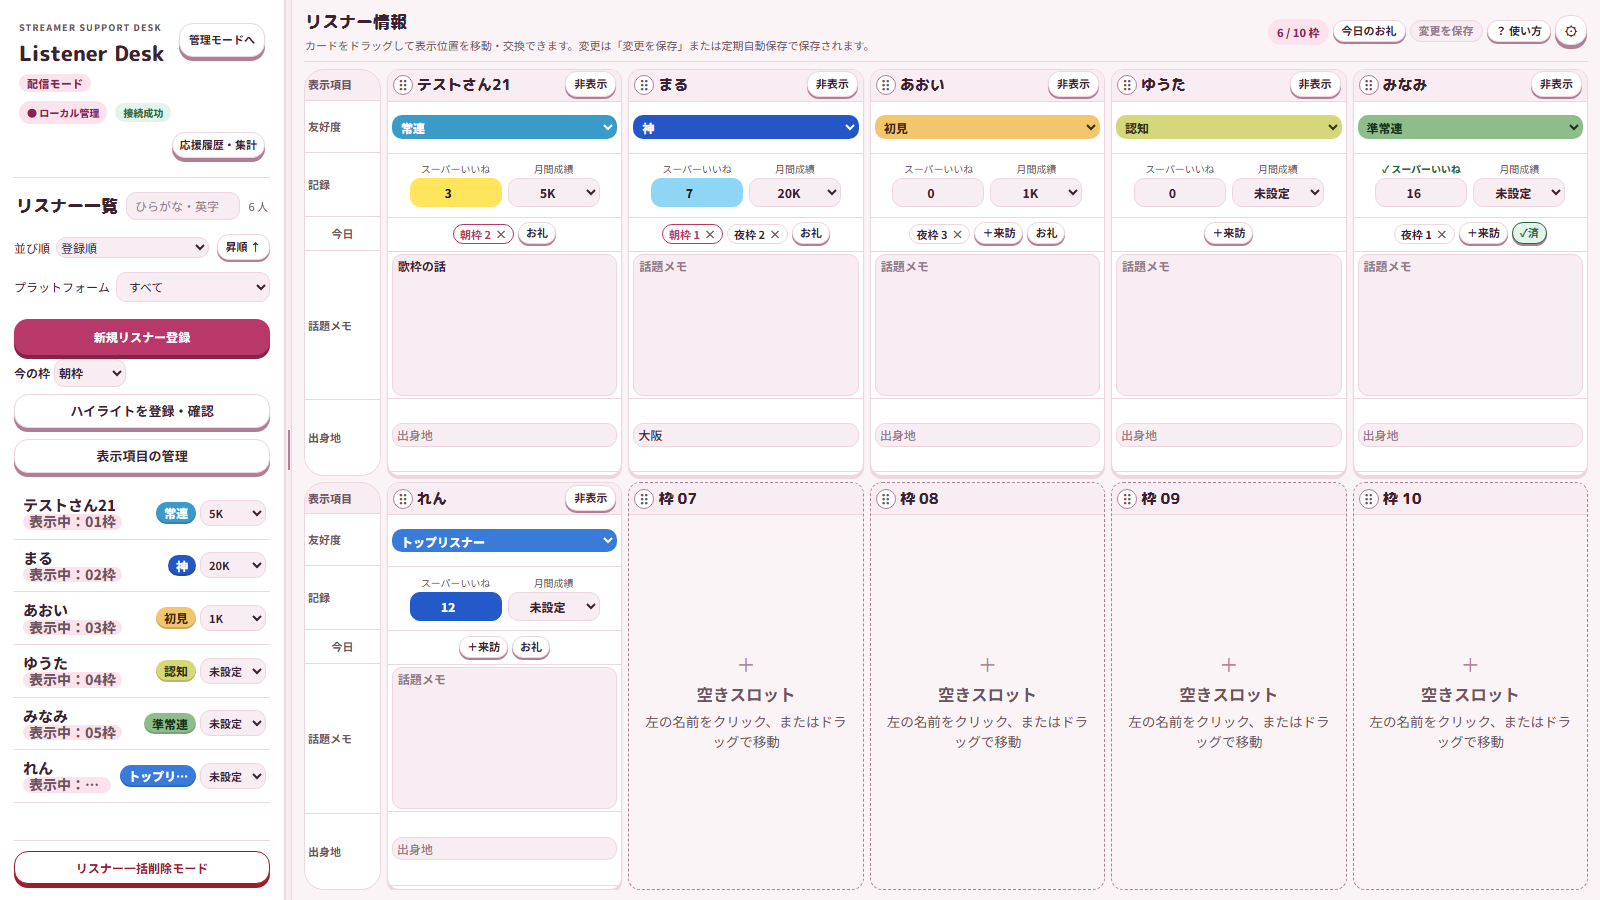
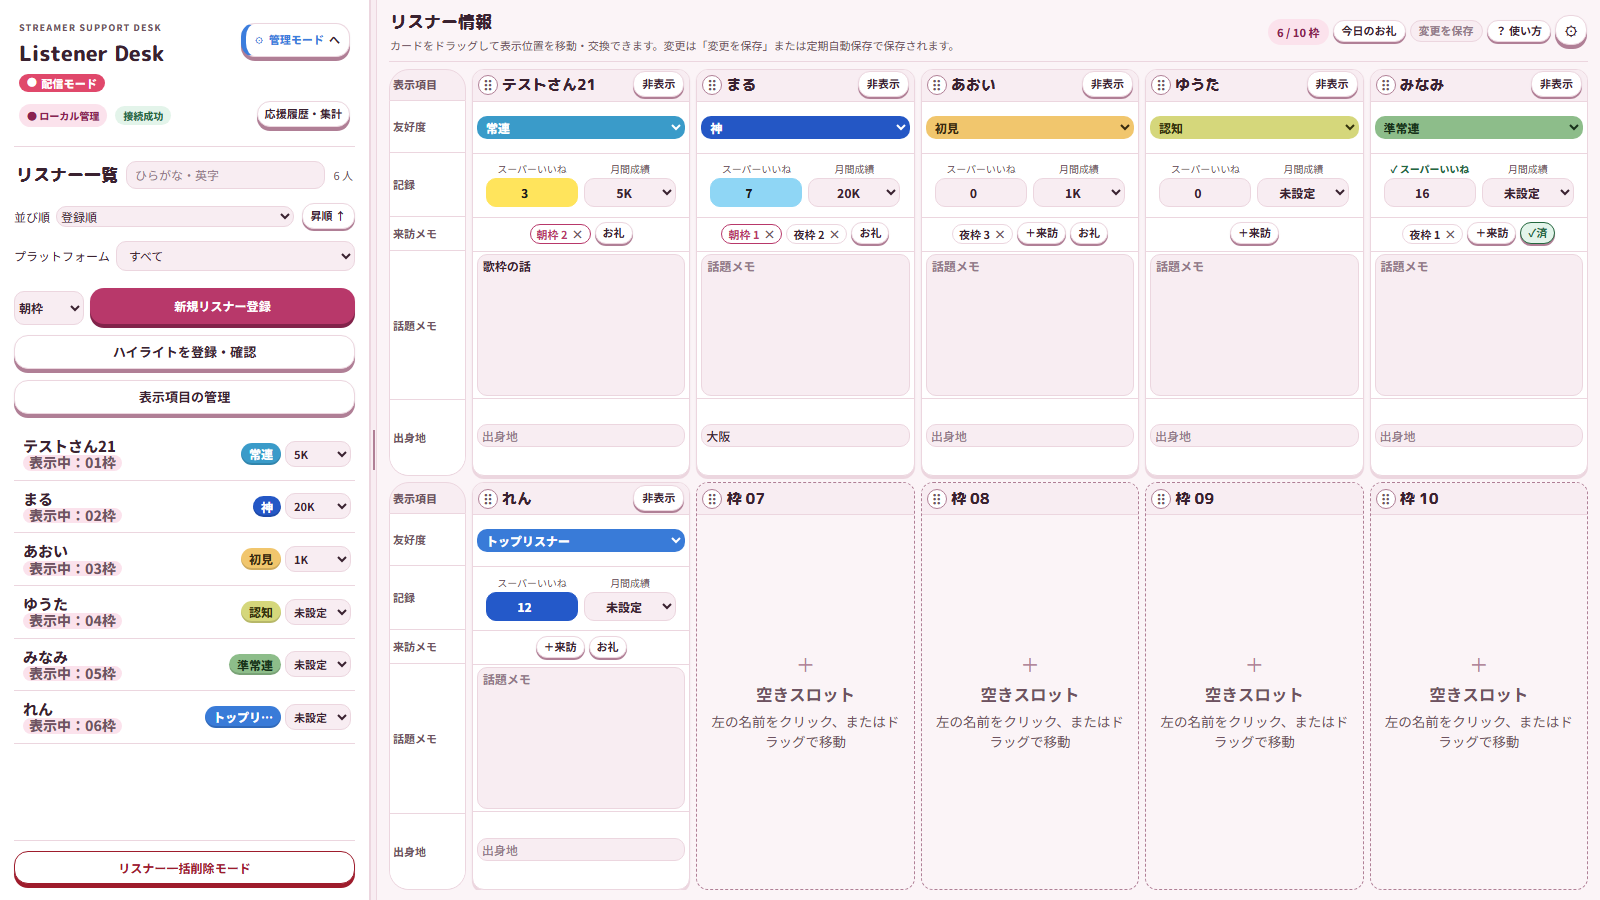
紹介ページを最新版に：成績記録・テーマの説明を更新、活動レポート・案内とツアーを追加、画面を撮り直し。開発中の拡張機能（スケジュール管理・録音・文字起こし・マネージャー）の欄を追加

diff --git a/index.html b/index.html
@@ -69,6 +69,13 @@
   details summary { cursor: pointer; font-weight: 800; }
   details p { margin: 8px 0 0; color: var(--muted); }
   .future { color: var(--muted); font-size: 14px; }
+  /* 開発中の拡張機能 */
+  .dev-badge { display: inline-block; margin-left: 8px; padding: 2px 10px; border-radius: 999px; background: #efe9fb; color: var(--lavender); font-size: 13px; font-weight: 800; vertical-align: middle; }
+  .ext-card { border-color: #d9d0f0; }
+  .ext-card .tag { color: var(--lavender); }
+  .ext-card ul { margin: 8px 0 0; padding-left: 1.2em; color: var(--muted); font-size: 14px; }
+  .ext-note { margin: 10px 0 0; padding: 10px 12px; border-radius: 12px; background: #fff8e1; color: #6b5512; font-size: 13.5px; }
+  .shots.two { margin-top: 22px; grid-template-columns: repeat(auto-fit, minmax(320px, 1fr)); }
   .contact-link { display: inline-block; padding: 10px 18px; border-radius: 999px; background: var(--ink); color: #fff; font-weight: 800; text-decoration: none; }
   .contact-link:hover { background: var(--blue); }
   footer { margin-top: 48px; padding: 28px 0 40px; border-top: 1px solid var(--line); color: var(--muted); font-size: 13px; }
@@ -87,6 +94,7 @@
     <nav class="links" aria-label="ページ内">
       <a href="#features" data-i18n="navFeatures">機能</a>
       <a href="#screens" data-i18n="navScreens">画面</a>
+      <a href="#extensions" data-i18n="navExt">拡張機能（開発中）</a>
       <a href="#requirements" data-i18n="navReq">動作環境</a>
       <a href="#faq" data-i18n="navFaq">よくある質問</a>
       <a href="#contact" data-i18n="navContact">お問い合わせ</a>
@@ -134,11 +142,13 @@
         <div class="card"><span class="tag" data-i18n="tagLive">配信モード</span><h3 data-i18n="f3Title">💌 今日のお礼</h3><p data-i18n="f3Body">その日に来てくれた人・応援してくれた人を一覧に。お礼をしたらチェックを入れると色が外れ、「まだお礼していない人だけ」で残りを確認できます。</p></div>
         <div class="card"><span class="tag" data-i18n="tagLive">配信モード</span><h3 data-i18n="f4Title">🎨 応援回数の段階色</h3><p data-i18n="f4Body">その日の応援の回数に応じて、カードの回数欄に色が付きます。色と回数の区切りは自由に変えられます（オン／オフ可）。</p></div>
         <div class="card"><span class="tag" data-i18n="tagManage">管理モード</span><h3 data-i18n="f5Title">📊 ダッシュボードと画像保存</h3><p data-i18n="f5Body">応援の推移や月間ランク別の人数をグラフで振り返り。SNS に載せやすいサイズで画像保存でき、リスナー名を伏せる設定が最初からオンです。</p></div>
-        <div class="card"><span class="tag" data-i18n="tagManage">管理モード</span><h3 data-i18n="f6Title">📝 成績記録と Excel 出力</h3><p data-i18n="f6Body">配信後の数値（最大同時視聴者・コメント数など、すべて任意）を記録して月別に振り返り。応援の記録や特典の配布チェックリストを Excel に出力できます。</p></div>
-        <div class="card"><span class="tag" data-i18n="tagLook">見た目</span><h3 data-i18n="f7Title">🎀 選べるテーマ</h3><p data-i18n="f7Body">かわいい系／クール系 × ライト／ダーク、質感は「ぷにぷに・ふわふわ・カッチリ」。色も自由に変えられます。使わない機能はボタンごと隠せます。</p></div>
+        <div class="card"><span class="tag" data-i18n="tagManage">管理モード</span><h3 data-i18n="f6Title">📝 成績記録と Excel 出力</h3><p data-i18n="f6Body">配信後の数値（最大同時視聴者・コメント数など、すべて任意）を記録して、月ごとにグラフで振り返り・画像で保存。「コメント数」などの項目名は、使っている配信サービスの呼び方に変えられます。応援の記録や特典の配布チェックリストを Excel に出力できます。</p></div>
+        <div class="card"><span class="tag" data-i18n="tagLook">見た目</span><h3 data-i18n="f7Title">🎀 選べるテーマ</h3><p data-i18n="f7Body">かわいい系／クール系 × ライト／ダーク、質感は「ぷにぷに・ふわふわ・カッチリ」。色も自由に変えられ、配信モード・管理モードは色とマークでひと目で見分けられます。使わない機能はボタンごと隠せ、管理メニューの並びや名前も変えられます。</p></div>
         <div class="card"><span class="tag" data-i18n="tagSafe">データの保全</span><h3 data-i18n="f8Title">🛟 バックアップ</h3><p data-i18n="f8Body">手動バックアップ、起動時の自動バックアップ（1日1回・最新7個）、復元前の自動退避。大切な記録を守る仕組みを用意しています。</p></div>
+        <div class="card"><span class="tag" data-i18n="tagManage">管理モード</span><h3 data-i18n="f9Title">📤 活動レポート</h3><p data-i18n="f9Body">選んだ期間の活動（配信の記録・配信時間・応援・月間ランク・来訪・予定など）を、1つの Excel にまとめて書き出し。自分の振り返りや記録の保管に。リスナーの情報を含めるかどうかも選べます。</p></div>
+        <div class="card"><span class="tag" data-i18n="tagHelp">はじめての方へ</span><h3 data-i18n="f10Title">🧭 案内とツアー</h3><p data-i18n="f10Body">最初に決めておくと便利な設定の案内と、画面の場所を光らせながら使い方を紹介するツアー付き。迷ったら「？ 使い方」からいつでも見直せます。</p></div>
       </div>
-      <p class="future" data-i18n="future">今後、効果音（SE）やスケジュール作りの拡張機能を別売りで追加していく予定です（内容と時期は決まりしだいお知らせします）。</p>
+      <p class="future" data-i18n="future">別売りの拡張機能も開発中です（下の「拡張機能」をご覧ください）。</p>
     </div>
   </section>
 
@@ -150,6 +160,28 @@
         <figure><img data-shot="live" src="assets/screens/live-ja.png" width="1600" height="900" alt="配信モードの画面" data-i18n-alt="shotLiveAlt" loading="lazy"><figcaption data-i18n="shotLive">配信モード：カードに来訪順（例：夜枠 3）と応援の回数を記録</figcaption></figure>
         <figure><img data-shot="thanks" src="assets/screens/thanks-ja.png" width="1600" height="900" alt="今日のお礼の画面" data-i18n-alt="shotThanksAlt" loading="lazy"><figcaption data-i18n="shotThanks">今日のお礼：その日に来た人と回数の一覧。お礼したらチェック</figcaption></figure>
         <figure><img data-shot="dashboard" src="assets/screens/dashboard-ja.png" width="1600" height="900" alt="ダッシュボードの画面" data-i18n-alt="shotDashAlt" loading="lazy"><figcaption data-i18n="shotDash">ダッシュボード：応援の推移やランクの分布を振り返り</figcaption></figure>
+        <figure><img data-shot="activity" src="assets/screens/activity-ja.png" width="1600" height="900" alt="活動レポートの画面" data-i18n-alt="shotActivityAlt" loading="lazy"><figcaption data-i18n="shotActivity">活動レポート：名前・期間・リスナーの情報の有無を選んで、Excel に書き出し</figcaption></figure>
+      </div>
+    </div>
+  </section>
+
+  <section id="extensions">
+    <div class="wrap">
+      <h2><span data-i18n="extTitle">拡張機能</span><span class="dev-badge" data-i18n="devBadge">開発中</span></h2>
+      <p class="section-lead" data-i18n="extLead">本体に追加して使える、別売りの拡張機能を開発しています。画面は開発中のもので、発売までに変わることがあります。内容・価格・時期は決まりしだいお知らせします。</p>
+      <div class="grid">
+        <div class="card ext-card"><span class="tag" data-i18n="tagExt">拡張機能</span><h3 data-i18n="e1Title">📅 スケジュール管理</h3><p data-i18n="e1Body">配信の予定づくりから、SNS 用の告知文、ランクの計画、特典の配布までを1つの画面で。</p>
+          <ul><li data-i18n="e1a">カレンダー・一覧・タイムチャート（今日から1週間、アプリごとの横棒）</li><li data-i18n="e1b">部品を並べるだけで作れる告知文のテンプレートと、コピーの履歴</li><li data-i18n="e1c">カレンダーやタイムチャートを SNS 用の画像で保存</li><li data-i18n="e1d">ランクの目標・予測・実績、特典の対象者の確定と配布の記録</li></ul></div>
+        <div class="card ext-card"><span class="tag" data-i18n="tagExt">拡張機能</span><h3 data-i18n="e2Title">🎙 録音・文字起こし</h3><p data-i18n="e2Body">「配信開始」で配信中の声を録音し、終わったらパソコンの中で文字起こし。言葉で探したり、時刻を押してその場面から聞き直したりできます。</p>
+          <ul><li data-i18n="e2a">音声も文字も外に送らない（パソコンの中だけで処理）</li><li data-i18n="e2b">録音（.wav）と文字（.txt）はファイルとしても保存</li><li data-i18n="e2c">12言語に対応した文字起こし</li></ul>
+          <p class="ext-note" data-i18n="e2Note">文字起こしにかかる時間は、パソコンの性能によって大きく変わります（目安：GPU があれば1時間の配信で数分〜十数分、無ければ1時間ほど）。また、この拡張機能を入れるとアプリが大きくなり、初回に文字起こしのツール（約0.5GB）のダウンロードが必要です。</p></div>
+        <div class="card ext-card"><span class="tag" data-i18n="tagExtOffice">事務所向けの拡張機能</span><h3 data-i18n="e3Title">🏢 マネージャー（事務所向け）</h3><p data-i18n="e3Body">事務所のマネージャーが、所属するライバー全員の活動を1つの Listener Desk でまとめて見られるようにする構想です。</p>
+          <ul><li data-i18n="e3a">ライバーは本体の「活動レポート」を書き出して渡すだけ（ネットでの共有はしません）</li><li data-i18n="e3b">リスナーの情報を含めるかは、ライバー自身が選べます</li><li data-i18n="e3c">全員の配信状況の比較、予定の一覧、面談・目標のメモ、月のまとめ</li><li data-i18n="e3d">事務所向けに1つの価格を予定</li></ul></div>
+      </div>
+      <div class="shots two">
+        <figure><img data-shot="schedule" src="assets/screens/schedule-ja.png" width="1600" height="900" alt="スケジュール管理のタイムチャート（開発中）" data-i18n-alt="shotScheduleAlt" loading="lazy"><figcaption data-i18n="shotSchedule">スケジュール管理（開発中）：タイムチャートで1週間の予定をアプリごとに</figcaption></figure>
+        <figure><img data-shot="announce" src="assets/screens/announce-ja.png" width="1600" height="900" alt="スケジュール管理の告知文（開発中）" data-i18n-alt="shotAnnounceAlt" loading="lazy"><figcaption data-i18n="shotAnnounce">スケジュール管理（開発中）：予定から告知文を作ってコピー</figcaption></figure>
+        <figure><img data-shot="recording" src="assets/screens/recording-ja.png" width="1600" height="900" alt="録音・文字起こし（開発中）" data-i18n-alt="shotRecordingAlt" loading="lazy"><figcaption data-i18n="shotRecording">録音・文字起こし（開発中）：時刻を押すとその場面から再生</figcaption></figure>
       </div>
     </div>
   </section>
@@ -221,10 +253,27 @@
     f3Title: "💌 Today's thanks", f3Body: "See everyone who visited or supported you that day. Check them off after thanking them and the color clears; “Only not thanked yet” shows who's left.",
     f4Title: "🎨 Count colors", f4Body: "The count box on each card changes color with today's support count. Colors and thresholds are fully customizable (can be turned off).",
     f5Title: "📊 Dashboard & image export", f5Body: "Look back on support trends and rank distribution with charts. Save as an image in social-friendly sizes, with listener names hidden by default.",
-    f6Title: "📝 Stream stats & Excel export", f6Body: "Log your numbers after a stream (peak viewers, comments and more, all optional) and review them by month. Export support records and reward checklists to Excel.",
-    f7Title: "🎀 Themes", f7Body: "Kawaii or Cool × Light or Dark, with Squishy, Fluffy or Crisp textures. Customize colors, and hide features you don't use.",
+    f6Title: "📝 Stream stats & Excel export", f6Body: "Log your numbers after a stream (peak viewers, comments and more, all optional), then review them by month with charts and save them as images. Rename items like “Comments” to match your streaming service. Export support records and reward checklists to Excel.",
+    f7Title: "🎀 Themes", f7Body: "Kawaii or Cool × Light or Dark, with Squishy, Fluffy or Crisp textures. Customize colors, and tell Live and Manage mode apart at a glance by color and icon. Hide features you don't use, and reorder or rename the manage menu.",
     f8Title: "🛟 Backups", f8Body: "Manual backups, automatic backups at startup (once a day, newest 7 kept) and an automatic safety copy before restoring.",
-    future: "Optional add-ons such as sound effects and schedule making are planned as separate purchases (details and timing will be announced once decided).",
+    future: "Optional add-ons are also in development (see “Add-ons” below).",
+    navExt: "Add-ons (in development)", tagHelp: "Getting started",
+    f9Title: "📤 Activity report", f9Body: "Export your activity for any period (stream records, streaming time, support, monthly ranks, visits, schedule and more) into one Excel file, for looking back or keeping records. You choose whether to include listener information.",
+    f10Title: "🧭 Guides & tours", f10Body: "A setup guide for handy settings, plus a tour that highlights each part of the screen as it explains it. Revisit it any time from “? Guide”.",
+    shotActivityAlt: "Activity report screen", shotActivity: "Activity report: choose a name, period and whether to include listener info, then export to Excel",
+    extTitle: "Add-ons", devBadge: "In development",
+    extLead: "We're developing optional add-ons you can buy separately and add to the app. Screens are from development and may change before release. Details, prices and timing will be announced once decided.",
+    tagExt: "Add-on", tagExtOffice: "Add-on for agencies",
+    e1Title: "📅 Schedule", e1Body: "From planning streams to social media announcements, rank plans and reward distribution, all in one screen.",
+    e1a: "Calendar, list and time chart (the next 7 days, bars per app)", e1b: "Announcement templates you build just by arranging parts, with copy history", e1c: "Save the calendar or time chart as a social-ready image", e1d: "Rank goals, forecasts and results; confirm reward recipients and track distribution",
+    e2Title: "🎙 Recording & transcription", e2Body: "Press “Start stream” to record your voice, then transcribe it on your PC afterwards. Search by words, or click a time to replay that moment.",
+    e2a: "Nothing is sent outside: all processing stays on your PC", e2b: "Recordings (.wav) and text (.txt) are also saved as files", e2c: "Transcription in 12 languages",
+    e2Note: "Transcription time depends heavily on your PC (roughly a few to 20 minutes per hour of stream with a GPU, about an hour without). This add-on also makes the app larger and needs a one-time download of the transcription tool (about 0.5 GB).",
+    e3Title: "🏢 Manager (for agencies)", e3Body: "A plan to let agency managers see the activity of all their streamers in one Listener Desk.",
+    e3a: "Streamers just export the app's “Activity report” and hand it over (no online sharing)", e3b: "Streamers choose whether to include listener information", e3c: "Compare everyone's streaming, see schedules side by side, keep meeting and goal notes, and make monthly summaries", e3d: "Planned as a single price for agencies",
+    shotScheduleAlt: "Schedule time chart (in development)", shotSchedule: "Schedule (in development): a week of plans per app in the time chart",
+    shotAnnounceAlt: "Schedule announcements (in development)", shotAnnounce: "Schedule (in development): build an announcement from your plans and copy it",
+    shotRecordingAlt: "Recording & transcription (in development)", shotRecording: "Recording & transcription (in development): click a time to play from that moment",
     screensTitle: "Screens", screensLead: "Names and data in the screenshots are fictional samples.",
     shotLiveAlt: "Live mode screen", shotLive: "Live mode: record visit order (e.g. Night 3) and support counts on cards",
     shotThanksAlt: "Today's thanks screen", shotThanks: "Today's thanks: everyone who came that day, with counts. Check them off after thanking",
